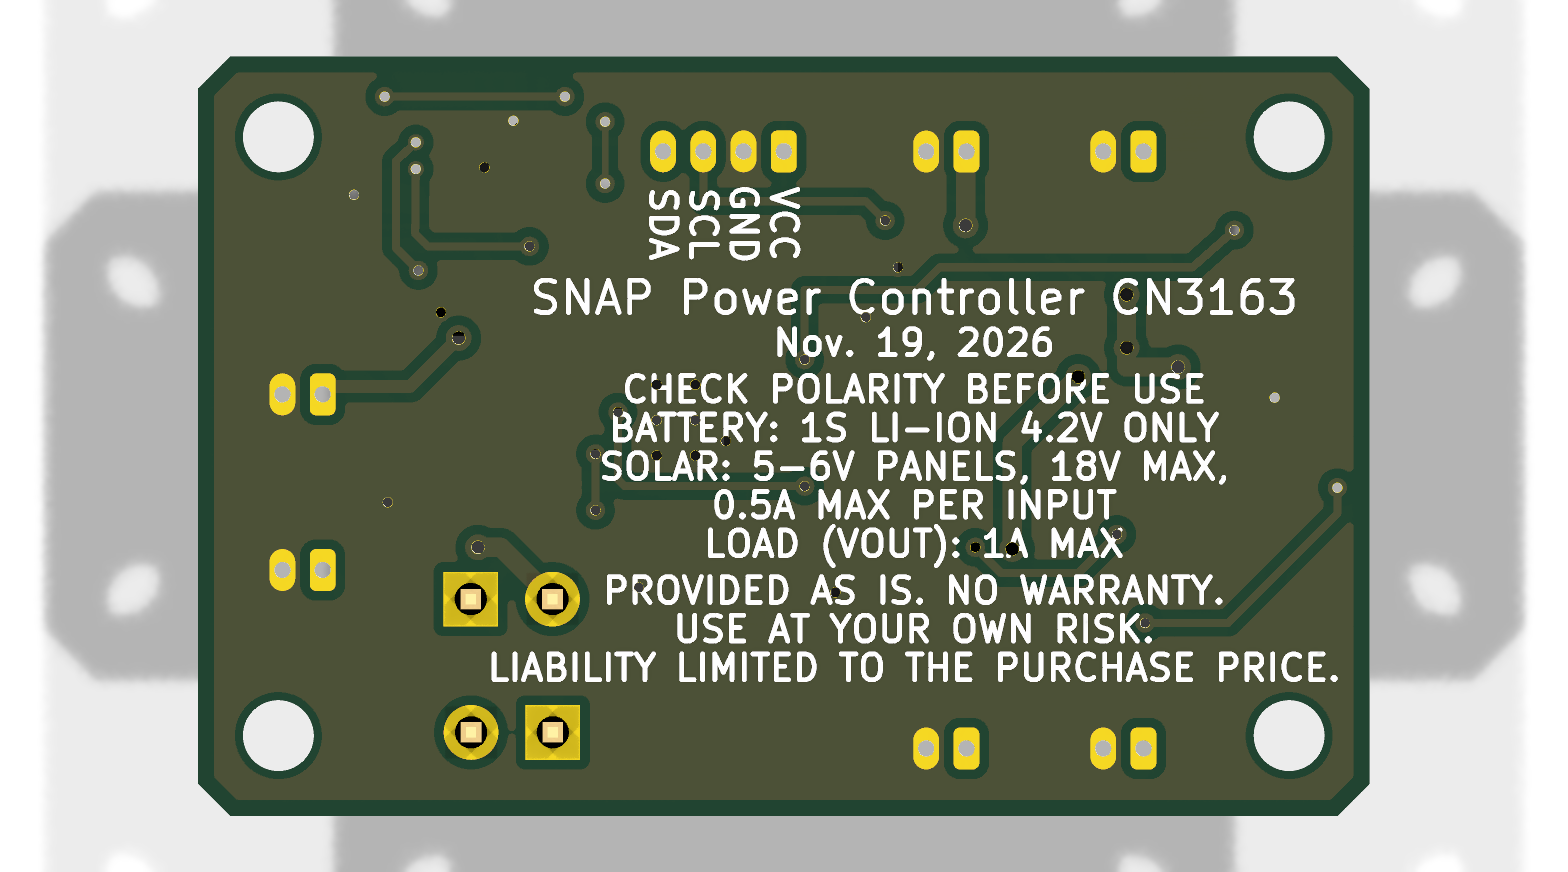
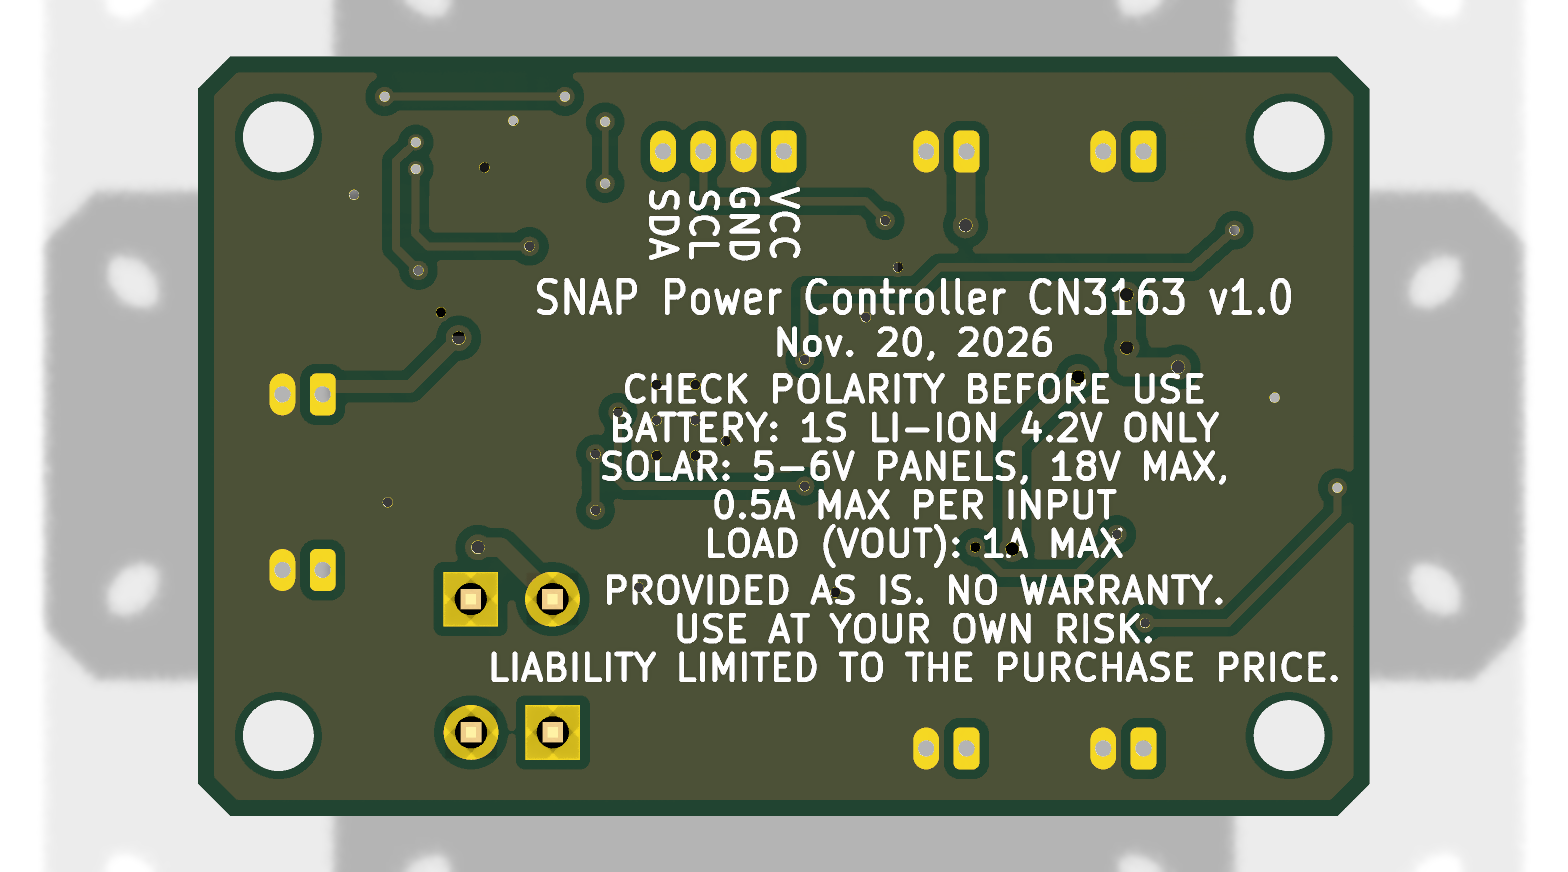
feat(cn3163): label the board v1.0 and give every BOM line a JLCPCB part
This prepares the first release of the CN3163 board, v1.0_cn3163.

- The back label reads "SNAP Power Controller CN3163 v1.0 / Nov. 20, 2026".
  The title is narrowed to 0.85 mm wide characters, which keeps it 2.4 mm
  from the board edge. At full width it came within 0.4 mm. The schematic
  and board title blocks are revision 1.0.
- The fab files are named SNAP_Power_Controller_CN3163_v1.0_*.
- tools/fab-package.js has an LCSC number and a manufacturer part for
  every BOM line, checked on jlcpcb.com today. They are Basic parts except
  D3, the connectors, U1, U2 and U3. D5-D8 are Changjiang B5819W (C8598):
  1 A, with 0.6 V at most at 1 A. JLCPCB's automatic match for "1N5819W"
  is a 350 mA part, which is below the board's printed 0.5 A per input.
  D3 is a KENTO KT-0603G (C12624), because no Basic green 0603 LED is in
  stock.

DRC: 0 violations, 0 unconnected items, schematic parity clean. ERC: 0.

Changed region(s): [[0.3438, 0.3096, 0.8438, 0.4025]]

diff --git a/tools/fab-package.js b/tools/fab-package.js
@@ -7,22 +7,37 @@ const path = require("path");
 const { execFileSync } = require("child_process");
 
 const OUT = process.argv[2] || "output/fab";
-const NAME = "SolarChargeModule_v1.1";
+const NAME = "SNAP_Power_Controller_CN3163_v1.0";
 
-// Manufacturer part numbers for the parts that need a specific one; generic passives are left to
-// the assembler's basic-parts library. LCSC numbers only where verified (KiCad lib description).
-const MPN = {
-  U1: "CN3163 (Consonance)",
-  U3: "LDL1117S50R (ST)",
-  U2: "INA3221AIRGVR (TI)",
-  Q2: "AO3401A (Alpha & Omega)",
-  D5: "1N5819W (SOD-123)", D6: "1N5819W (SOD-123)", D7: "1N5819W (SOD-123)", D8: "1N5819W (SOD-123)",
-  J1: "53047-0210 (Molex)", J2: "53047-0210 (Molex)", J3: "53047-0210 (Molex)", J4: "53047-0210 (Molex)",
-  J5: "53047-0210 (Molex)", J6: "53047-0210 (Molex)", J7: "2.54mm 1x02 vertical pin header", J8: "2.54mm 1x02 vertical pin header",
-  J9: "53047-0410 (Molex)",
+// JLCPCB/LCSC parts, checked on jlcpcb.com on 2026-11-20 (stock and Basic/Extended can change; re-check
+// before ordering). Basic parts wherever one fits: only D3, the connectors, U1, U2 and U3 are Extended.
+// Keyed by the first reference of each BOM line.
+const PARTS = {
+  C1: ["C13585", "CL31A106KBHNNNE (Samsung), 10uF 50V X5R 1206"],
+  C2: ["C13585", "CL31A106KBHNNNE (Samsung), 10uF 50V X5R 1206"],
+  C6: ["C14663", "CC0603KRX7R9BB104 (YAGEO), 100nF 50V X7R"],
+  D3: ["C12624", "KT-0603G (Hubei KENTO), green, 3.1V at 5mA"],
+  D4: ["C2286", "KT-0603R (Hubei KENTO), red"],
+  D5: ["C8598", "B5819W SL (Changjiang), 40V 1A, 0.6V max at 1A"],
+  J1: ["C114130", "53047-0210 (Molex)"],
+  J5: ["C114130", "53047-0210 (Molex)"],
+  J6: ["C114130", "53047-0210 (Molex)"],
+  J7: ["C32713268", "HX PZ2.54-1x2P ZZ (hanxia), 2.54mm 1x02 pin header"],
+  J8: ["C32713268", "HX PZ2.54-1x2P ZZ (hanxia), 2.54mm 1x02 pin header"],
+  J9: ["C504989", "53047-0410 (Molex)"],
+  Q2: ["C15127", "AO3401A (Alpha & Omega)"],
+  R1: ["C21190", "0603WAF1001T5E (UNI-ROYAL), 1k 1%"],
+  R2: ["C22843", "0603WAF1501T5E (UNI-ROYAL), 1.5k 1%"],
+  R3: ["C23162", "0603WAF4701T5E (UNI-ROYAL), 4.7k 1%"],
+  R4: ["C25819", "0603WAF4702T5E (UNI-ROYAL), 47k 1%"],
+  R6: ["C25334", "1206W4F100LT5E (UNI-ROYAL), 0.1R 1% thick film"],
+  R8: ["C25804", "0603WAF1002T5E (UNI-ROYAL), 10k 1%"],
+  U1: ["C559031", "CN3163 (Consonance)"],
+  U2: ["C181255", "INA3221AIRGVR (TI)"],
+  U3: ["C970558", "LDL1117S50R (ST)"],
 };
-// None verified at the moment: C191023 was the SOD-323 1N5819WS that D5-D8 used before.
-const LCSC = {};
+const LCSC = Object.fromEntries(Object.entries(PARTS).map(([r, [c]]) => [r, c]));
+const MPN = Object.fromEntries(Object.entries(PARTS).map(([r, [, m]]) => [r, m]));
 
 function parseCsv(text) {
   return text.trim().split(/\r?\n/).map((line) => [...line.matchAll(/"([^"]*)"|([^,]+)/g)].map((m) => m[1] ?? m[2]));
@@ -48,7 +63,7 @@ for (const [ref, val, pkg, x, y, rot, side] of pos) {
 fs.writeFileSync(path.join(OUT, `${NAME}_CPL.csv`), cplOut.join("\n") + "\n");
 
 // Order notes: the settings to pick on the board house's form, and assembly cautions.
-fs.writeFileSync(path.join(OUT, "FAB_NOTES.txt"), `SNAP Power Controller, CN3163 version (JaisorGadgets, Nov. 19, 2026) - fabrication notes
+fs.writeFileSync(path.join(OUT, "FAB_NOTES.txt"), `SNAP Power Controller CN3163 v1.0 (JaisorGadgets, Nov. 20, 2026) - fabrication notes
 
 Upload: ${NAME}_gerbers.zip (Gerber X2 + Excellon drill, generated by KiCad 10.0.7)
 
@@ -68,8 +83,8 @@ PCB order settings
 
 Assembly (optional): top side only
   BOM: ${NAME}_BOM.csv   Placement: ${NAME}_CPL.csv (same coordinates as the Gerbers)
-  - LCSC part numbers are filled in only where verified (none yet). Pick them in the
-    assembler's part search; the Manufacturer Part column names the specific parts.
+  - Every BOM line has an LCSC part number, checked on jlcpcb.com on Nov. 20, 2026. All are
+    Basic parts except D3, the connectors, U1, U2 and U3. Re-check stock before ordering.
   - Check part rotation and polarity in the assembler's preview before ordering, especially
     U1 (CN3163, exposed pad), U3 (LDL1117S50R), U2 (INA3221, VQFN-16 with exposed pad), Q2, D5-D8 and the LEDs D3 (green) / D4 (red).
   - Through-hole parts: J1-J6 and J9 (Molex 53047 PicoBlade headers), J7 and J8 (2.54 mm pin headers).

diff --git a/CLAUDE.md b/CLAUDE.md
@@ -15,7 +15,7 @@ The user asked for a branch from `main` (at 9c4d5f3) with the charger redesigned
 - **Battery temperature sensing (2026-11-18, user's request and choices).** R3 = 4.7k 1 % VCHG→TEMP, R4 = 47k 1 % TEMP→GND, for a 10k B3950 NTC across R4 (0 °C 33.6k, 45 °C 4.35k → exact 4.86k / 46.1k; with E24 values the window is about 1.3–46 °C). The user chose: (1) charge out of the box, cut to enable: JP2 is a trace-bridged jumper TEMP–GND (sensing off; R3 then draws ~1 mA from VCHG, only while panels are lit); (2) 10k B3950; (3) SMD pads. There was no room left of D5 for separate NTC pads plus a library jumper (the board's left edge is at x = 101.85, so that strip is ~3.95 mm wide), so JP2's footprint is the NTC pads: `SolarNode:NTC_SolderPads_Bridged_P2.54mm` in the new project library `SolarNode.pretty` (+ `fp-lib-table`): two 1.5 × 1.8 mm SMD pads on 2.54 mm, a 0.25 mm F.Cu bridge with a mask opening, `net_tie_pad_groups "1, 2"`, attr smd + exclude from BOM/pos. Built with pcbnew Python (`PCB_IO_KICAD_SEXPR().FootprintSave`; `pcbnew.FootprintSave` has no plugin in KiCad 10). TH1 (`Device:Thermistor_NTC`, 10k B3950) is schematic-only: on_board no, in_bom no, dnp yes (`o.offBoard`/`o.noBom`/`o.dnp` in gen-schematic.js). Schematic block at (203.2, 104.14) right of the LEDs; U1 pin 1 now has a `TEMP` label stub. Board (abs), after the user moved JP2, R3, R4, JP1 and R1 on 2026-11-18 and I re-routed: JP2 at (104.5, 108.0) rot 0, pad 1 TEMP on top, GND via at (104.8, 110.6) under pad 2; R4 at (104.5, 111.5) and R3 at (104.5, 113.0), both rot 0, under JP2 (R4: pin 1 TEMP left, pin 2 GND right, tied to JP2's GND via; R3: pin 1 VCHG left, pin 2 TEMP right; TEMP crosses diagonally between them from R4 pin 1 to R3 pin 2); JP1 at (105.17, 116.2) rot 0, now `SolarNode:NTC_SolderPads_Bridged_P2.54mm` too (user's request and choice, 2026-11-18: bridged, so the LEDs are on as supplied; symbol `Jumper:SolderJumper_2_Bridged`; pad 1 at y 114.93 → D3 anode along y = 114.7, pad 2 at y 117.47 → R1 pin 2 along y = 116.5); R1 at (108.0, 116.5) rot 180 under D3, VCHG pad on the right. `NTC` label vertical at (103.0, 109.0), `LED` at (103.5, 116.0). TEMP route: U1 pin 1 → via (119.4, 109.42) → B.Cu (119.4, 107.25) → (115.9, 107.25) → (115.2, 106.55) → (107.35, 106.55) → (105.9, 105.1) via → JP2 pad 1 → west round JP2 pad 2, down x = 102.85 → R4 pin 1 → R3 pin 2. VCHG: U3 tab 0.4 mm diagonal to R1 pin 1 at (108.825, 116.5), then 0.25 mm down x = 108.825, along y = 118.75 under JP1 and up x = 102.85 to R3 pin 1 (the user dropped it to y = 118.1 first; JP1's taller pads pushed it to 118.75). U1 pin 1's old GND stub and its via at (121.85, 109.4), which overlapped the pad, were removed. Result: 199 segments, 42 vias (17 GND), 290 mm F.Cu / 76 mm B.Cu, 37 footprints; ERC 0, DRC 0 / 0 / 0. Scripts: scratch `temp_pcb.py`, then `reroute.py` (not kept).
 - **Re-laid out on `main`'s 36.4 × 23.6 mm board (2026-11-17, user's request: same size as `main`, layout as close as possible, connectors especially).** R10 and INA3221 channel 3 dropped as on `main` (user's choice): J1 goes straight to D5, IN+3/IN−3 tied together and to GND; H1–H4 are M2 (`MountingHole_2.2mm_M2`). Both changes are in `tools/gen-schematic.js`, and the schematic was regenerated (ERC 0). The board was rebuilt from this branch's footprints (so they stay linked to the generated schematic): `main`'s Edge.Cuts, holes and board texts (back label: "SNAP Power Controller CN3163", "Nov. 15, 2026", "18V MAX"; no credit line), and `main`'s exact position and rotation for J1–J9, D3–D8, R1, R6–R9, C1, C3, C6, Q2, U2 and JP1. C3 is turned 180° from `main` so its VBAT pad faces U1's BAT pin. The CN3163 parts sit where the CN3791 power stage was: U3 (SOT-223) at abs (114.4, 114.35) rot 180, in the CN3791's old spot, with VIN at the top right next to C1 and the tab facing the LEDs; U1 at (123.4, 111.3) rot 0, where L1 was (VIN on the left from U3 pin 2, BAT on the right to C3); C2 at (122.2, 116.5); R2 at (118.4, 108.9) rot 90 by the ISET pin. Routed with a copy of the `new_layout` router (`output/route-cn3163.py`, gitignored): `main`'s HAND list for U2, I2C and VCC_MCU unchanged, the DRV hop and the switching-loop keep-outs removed, plus a U2 pad 1–3 GND link, six thermal vias in U1's exposed pad with a B.Cu keep-out under it, and priority edges R7 → C1 → U3 → U1/C2 → C3 → J7. After routing, `fix_vias` removed the router's duplicate stitch vias (U1 EP, U2 pads 1/2) and merged two PV vias at R7. Result: 175 segments, 40 vias (17 GND), 267 mm F.Cu / 59 mm B.Cu, 34 footprints; ERC 0, DRC 0 / 0 / 0 (min text height 0.6 mm, as on `main`). The PCB bullet below describes the earlier 52 × 29 mm board. `tools/place-pcb.py` describes that earlier board: don't run it. J3/J4 aligned (2026-11-18, user's request, also on `main`): J4 at abs (108.875, 121.5) and J3 at (114.375, 121.5), the same x as J1/J2; their anode tracks' first two points and the `+S4-`/`+S3-` labels (x 109.5 / 115.0) moved with them; 268 mm F.Cu, DRC 0 / 0 / 0. README, changelog and images were refreshed for this board on 2026-11-18 (user's request): renders at `--zoom 1.35` as on `main`; `tools/make-diagram.py` is `main`'s with a CN3163 subtitle; `tools/fab-package.js` has `main`'s size, M2 holes, via sizes and JP1 location.
 - **PCB (2026-11-15).** Same 52 × 29 mm outline, holes and connector positions as `main`; only the middle of the board changed, and the left band, the solar column, R7, C1, R6, Q2, J5–J9 and their routes are untouched. Placement: U3 (30.3, 7.1) rot 270 (pins along the top, VIN left, in line with R7 and C1 at y = 3.94; tab at the bottom); R1 (31.125, 1.5), JP1 (35.7, 1.9) rot 180, D4 (38.5, 3.6) and D3 (40.9, 3.6) rot 90 along the top edge; U1 (30.6, 16.35) rot 90 (top row FB, CHRG, DONE, BAT; bottom row TEMP, ISET, GND, VIN); R2 (30.6, 21.2); C2 (31.03, 23.2) rot 180; C3 moved to (37.0, 12.4) so its VBAT pad is on U1's BAT pin's line. Routing: VIN straight R7 → C1 → U3 pin 3; VCHG from U3's pin 2 to its tab under the body, then west to x = 26.6, south to y = 25, east to C2 and up into U1 pin 4 (R2 and C2's ground sit inside that loop; 21 mm, about 13 mΩ); VBAT straight from U1 pin 5 to C3 at y = 13.875, then the existing track to J7/J8; CHRG and DONE leave U1 northwards at y = 11.8 / 12.3, run up at x = 34.4 / 34.85 and east at y = 6.2 / 6.65 to the LED cathodes; R1 hangs off U3's pin 2. **Why FB hops on B.Cu:** CHRG and DONE sit between FB and BAT on the package, so any top-layer FB–BAT link fences them in (every orientation was tried on paper); FB goes to a via at (27.7, 13.875), on B.Cu round the north of U1 at y = 12.5 to a via in the VBAT track at (33.7, 13.875). **Why U1 is turned this way:** the channel 1 sense pair runs up at x = 33.9 / 34.35 from the bottom edge to R6, so VBAT can only leave eastwards north of y ≈ 15.6; BAT therefore has to be on top. Thermal: six 0.6/0.3 vias in U1's exposed pad at (±1.2, ±0.7) from its centre, pad 9 solid into the top pour; the library's `_ThermalVias` footprint was tried and dropped because its 0.2 mm drills fail the board's 0.3 mm minimum. Numbers: 163 segments, 64 vias (55 GND, 42 stitching), 419 mm F.Cu / 27 mm B.Cu, pours 899 / 1319 mm², 20 PTH pads, 0 placement problems. U1's 3D model does not show in renders (the footprint's model file seems to be missing); cosmetic.
-- **Back label on this branch:** "SNAP Power Controller CN3163 / by JaisorGadgets - Nov. 15, 2026" and "18V MAX". The name line is Claude's placeholder to tell the two boards apart: the user has not chosen a version number for this variant. Fab file names in fab-package.js are still `SolarChargeModule_v1.1`.
+- **Released as `v1.0_cn3163` (2026-11-20, user's request and choices):** tag name and v1.0 labelling chosen by the user. Back label "SNAP Power Controller CN3163 v1.0" (title text narrowed to size 1 × 0.85 mm so it stays 2.4 mm from the edge; at 1 × 1 it came within 0.4 mm) / "Nov. 20, 2026"; title-block rev 1.0 (schematic and board); fab files `SNAP_Power_Controller_CN3163_v1.0_*`. `tools/fab-package.js` has a `PARTS` table with an LCSC number and MPN for every BOM line, checked on jlcpcb.com 2026-11-20: Basic except D3 (KT-0603G C12624; no Basic green 0603 in stock, C72043 is Extended with 0 stock), J1–J6 C114130, J7/J8 C32713268, J9 C504989, U1 CN3163 C559031, U2 C181255, U3 LDL1117S50R C970558. D5–D8 = Changjiang B5819W SL C8598 (datasheet: IO 1 A, IFSM 9 A, VF ≤ 0.6 V at 1 A, 500 mW, 200 °C/W); JLCPCB's auto-match for 1N5819W, JSMSEMI C963381, is only 350 mA and 0.6 V at 200 mA. C1–C3 all C13585 (10 µF 50 V X5R 1206); R6/R7 C25334 (UNI-ROYAL thick film, 800 ppm/°C, in line with the generic-shunt decision). The release is not marked Latest (v1.1, `main`, stays Latest).
 - KiCad's project window was open (`~SNAP_Power_Controller.kicad_pro.lck`) while the board was rewritten; neither editor was.
 
 - Datasheet: https://kaspars.net/wp-content/uploads/2023/12/CN3163.pdf (REV 1.0, a third-party copy; Consonance's own site did not serve it). **Figures confirmed 2026-11-15** from a copy the user supplied (`AR3797-SD05CRMA-...-Datasheet.pdf` in their Downloads, also REV 1.0; the Read tool shows its pages when called without `pages`). Pin assignment: 1 TEMP, 2 ISET, 3 GND, 4 VIN, 5 BAT, 6 DONE, 7 CHRG, 8 FB. Figure 1 matches the schematic: C1 on VIN, one resistor from the input to both LED anodes, red LED to CHRG, green to DONE, FB straight to the battery +, C2 on BAT, TEMP to GND, RISET to GND. Package: body 3.8–4.0 × 4.7–5.1 mm, 1.27 mm pitch, 5.8–6.2 mm over the leads, exposed pad E2 2.313–2.513 × D1 3.202–3.402 mm, so `Package_SO:SOIC-8-1EP_3.9x4.9mm_P1.27mm_EP2.41x3.3mm` is the right footprint. The two copies differ in one place: the user's says "typically a 1uF capacitor from BAT pin to GND", the other "stable with an 1uF to 22uF ceramic capacitor"; C3 = 10 µF satisfies both.

diff --git a/README.md b/README.md
@@ -162,7 +162,7 @@ The [wiring diagram](#built-for-solar-mesh-nodes) includes a dimension drawing t
 - **I2C connector:** `I2C` under J9 on the front. The pin names (`VCC`, `GND`, `SCL`, `SDA`) are printed under its pads on the back.
 - **LED jumper:** `LED` beside JP1.
 - **NTC pads:** `NTC` above JP2.
-- **Back:** the module ID, "SNAP Power Controller CN3163 / Nov. 19, 2026". Under it, a reminder to check polarity, the limits listed under [Safety](#safety), and a short no-warranty notice.
+- **Back:** the module ID, "SNAP Power Controller CN3163 v1.0 / Nov. 20, 2026". Under it, a reminder to check polarity, the limits listed under [Safety](#safety), and a short no-warranty notice.
 - **Text size:** the front labels are 0.6mm text, the board's minimum. Board houses often recommend 0.8–1mm or more, so check that yours prints 0.6mm cleanly. The back label is 0.8 to 1.0mm.
 
 **Routing** (a grid auto-router adapted from `tools/route-pcb.py`, with the tightest connections placed by hand first; the board file is the source of truth):
@@ -261,16 +261,16 @@ This is an experimental design for charging a lithium-ion cell. It's provided as
 
 ## Fabrication
 
-The [latest release](https://github.com/jaisor/SNAP_Power_Controller/releases/latest) is v1.1 of `main`'s CN3791 board, as first laid out at 52 × 29mm. Its files don't match this board. The CN3163 board has no release; generate its package with the commands below. The package is generated into `output/fab/`, which isn't tracked in git:
+This board's release is [v1.0_cn3163](https://github.com/jaisor/SNAP_Power_Controller/releases/tag/v1.0_cn3163) (Nov. 20, 2026), with the files below attached. The repository's latest release, v1.1, is `main`'s CN3791 board, and its files don't match this one. The commands below regenerate the package into `output/fab/`, which isn't tracked in git:
 
 | File | Contents |
 |---|---|
-| `SolarChargeModule_v1.1_gerbers.zip` | Upload this to the board house. 9 Gerber X2 layers (copper, mask, paste and silkscreen on both sides, plus the outline), a Gerber job file, plated and non-plated Excellon drill files, and drill maps |
+| `SNAP_Power_Controller_CN3163_v1.0_gerbers.zip` | Upload this to the board house. 9 Gerber X2 layers (copper, mask, paste and silkscreen on both sides, plus the outline), a Gerber job file, plated and non-plated Excellon drill files, and drill maps |
 | `FAB_NOTES.txt` | Order settings: 2 layers, FR-4 1.6mm, 1oz copper, 36.4 × 23.6mm, 0.2mm/0.2mm minimum track/space, 0.3mm minimum drill, tented vias, four 2.2mm non-plated holes. Also assembly cautions |
-| `SolarChargeModule_v1.1_BOM.csv` | BOM in JLCPCB format (Comment, Designator, Footprint, LCSC Part #), plus a Manufacturer Part column for the specific parts |
-| `SolarChargeModule_v1.1_CPL.csv` | Pick-and-place file for top-side assembly, in the same coordinates as the Gerbers |
+| `SNAP_Power_Controller_CN3163_v1.0_BOM.csv` | BOM in JLCPCB format (Comment, Designator, Footprint, LCSC Part #), plus a Manufacturer Part column for the specific parts |
+| `SNAP_Power_Controller_CN3163_v1.0_CPL.csv` | Pick-and-place file for top-side assembly, in the same coordinates as the Gerbers |
 
-The file names still say v1.1: this variant has no version number of its own yet. No LCSC part numbers are filled in yet. Pick them in the assembler's part search, and check rotation and polarity in their preview. The PicoBlade headers and the J7 and J8 pin headers are through-hole parts. JP1 is a solder jumper made of bare pads, so it has no part to place.
+Every BOM line has a JLCPCB/LCSC part number, checked on jlcpcb.com on Nov. 20, 2026. They are Basic parts except D3, the connectors, U1, U2 and U3. Re-check stock before ordering, and check rotation and polarity in the assembler's preview. D5–D8 are Changjiang B5819W (C8598), rated 1A with 0.6V at most at 1A. The PicoBlade headers and the J7 and J8 pin headers are through-hole parts. JP1 is a solder jumper made of bare pads, so it has no part to place.
 
 Regenerating the package (after the board is final and DRC is clean):
 

diff --git a/CHANGELOG.md b/CHANGELOG.md
@@ -2,9 +2,14 @@
 
 Changes to the Solar Charge Module that matter to someone building or using the board. Versions match the release tags and the label on the back of the board.
 
-## Unreleased: branch `cn3163`
+## v1.0_cn3163 (2026-11-20), branch `cn3163`
 
-The CN3163 variant of the board on `main`. Not built or tested. ERC reports 0 violations; DRC reports 0 violations, 0 unconnected items and 0 schematic parity issues. It has no release, and its files don't match the v1.1 release files.
+The CN3163 variant of the board on `main`, and its first release. Not built or tested. ERC reports 0 violations; DRC reports 0 violations, 0 unconnected items and 0 schematic parity issues. Its files don't match the v1.1 release files, which are `main`'s CN3791 board.
+
+### Release files
+
+- The fab files are named `SNAP_Power_Controller_CN3163_v1.0_*` (were `SolarChargeModule_v1.1_*`), and the title-block revision is 1.0.
+- Every BOM line has a JLCPCB/LCSC part number, Basic parts wherever one fits. D5–D8 are Changjiang B5819W (C8598): 1 A, 0.6 V at most at 1 A. The first match JLCPCB's tool offered for "1N5819W" was a 350 mA part.
 
 ### Charger
 
@@ -25,7 +30,7 @@ The CN3163 variant of the board on `main`. Not built or tested. ERC reports 0 vi
 - As on `main`: J4 and J3 on the bottom edge sit directly under J1 and J2 (0.625 mm and 0.875 mm further left than before), with their `+S4-` and `+S3-` labels.
 - As on `main`: R10 and INA3221 channel 3 are removed, and channel 3's inputs are tied to GND. The front silkscreen has function labels only (`+S1-` to `+S4-`, `+1S BATT-`, `+LOAD-`, `SW BATT`, `SW LOAD`, `I2C`, `LED`), at 0.6 mm minimum.
 - As on `main`: the input diodes D5–D8 are 1N5819W in SOD-123 (was 1N5819WS in SOD-323), so each solar input is good for 0.5 A instead of about 0.3 A.
-- The back label reads "SNAP Power Controller CN3163 / Nov. 19, 2026". Printed under it: check polarity; battery 1S Li-ion 4.2 V only; solar 5–6 V panels, 18 V max (20 V on the CN3791 board, now set by U3), 0.5 A max per input; load 1 A max; and a notice that the board is provided as is, with no warranty, and liability limited to the purchase price. The README lists the same limits under Safety.
+- The back label reads "SNAP Power Controller CN3163 v1.0 / Nov. 20, 2026". Printed under it: check polarity; battery 1S Li-ion 4.2 V only; solar 5–6 V panels, 18 V max (20 V on the CN3791 board, now set by U3), 0.5 A max per input; load 1 A max; and a notice that the board is provided as is, with no warranty, and liability limited to the purchase price. The README lists the same limits under Safety.
 
 ## v1.1 (2026-11-09)
 
